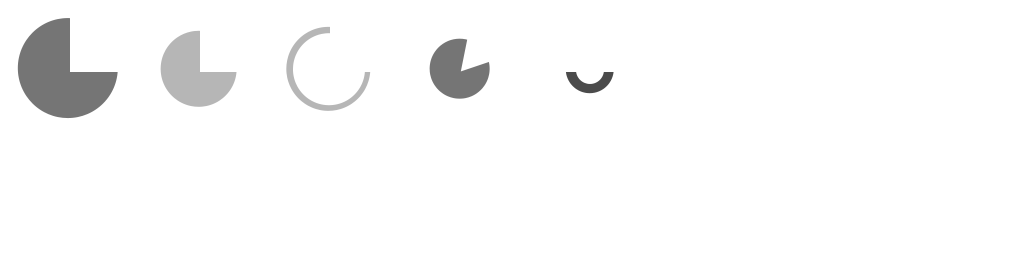
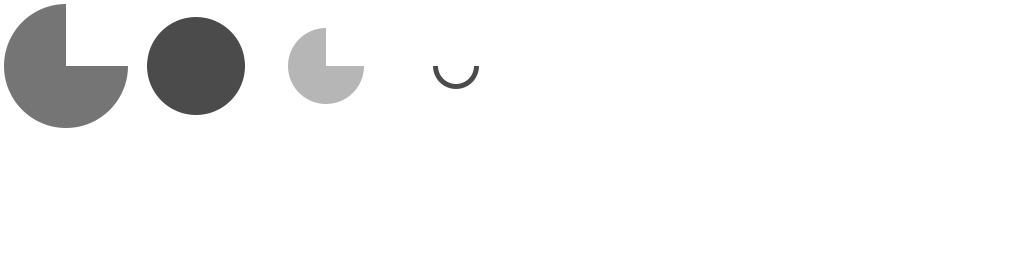
Corrected planet scan sprite. Changed scan animation.

diff --git a/SpaceSurvival/core/src/maxfat/spacesurvival/screens/GameScreen.java b/SpaceSurvival/core/src/maxfat/spacesurvival/screens/GameScreen.java
@@ -19,12 +19,15 @@ import com.badlogic.ashley.utils.ImmutableArray;
 import com.badlogic.gdx.Gdx;
 import com.badlogic.gdx.Screen;
 import com.badlogic.gdx.assets.AssetManager;
+import com.badlogic.gdx.graphics.Color;
 import com.badlogic.gdx.graphics.GL20;
 import com.badlogic.gdx.graphics.g2d.PolygonSpriteBatch;
 import com.badlogic.gdx.graphics.g2d.TextureAtlas;
 import com.badlogic.gdx.graphics.g2d.TextureAtlas.AtlasRegion;
 import com.badlogic.gdx.graphics.g2d.TextureRegion;
+import com.badlogic.gdx.math.Interpolation;
 import com.badlogic.gdx.math.Vector2;
+import com.badlogic.gdx.scenes.scene2d.Action;
 import com.badlogic.gdx.scenes.scene2d.Actor;
 import com.badlogic.gdx.scenes.scene2d.actions.Actions;
 import com.badlogic.gdx.utils.Array;
@@ -122,17 +125,48 @@ public class GameScreen implements Screen {
 						Array<AtlasRegion> ary = atlas.getRegions();
 						Array<Actor> actors = new Array<Actor>();
 						Vector2 v = planetComp.getPosition();
-						for (int i = 0; i < 5; i++) {
+						float scaleMultiplier = .5f;
+						float initialAnimationDuration = scaleMultiplier
+								* ary.size;
+						float baseAlpha = .7f;
+						for (int i = 0; i < ary.size; i++) {
 							TextureRegion region = ary.get(i);
 							Actor a = new TextureActor(region);
+							a.setColor(new Color(Color.rgba8888(.25f, .5f,
+									.66f, baseAlpha)));
 							a.setPosition(v.x - region.getRegionWidth() / 2,
 									v.y - region.getRegionHeight() / 2);
 							float rotateSpeed = 10 * (i + 1);
 							float initialRotation = (float) RandomUtil
 									.randomBetweenRanges(0, 360);
 							a.setRotation(initialRotation);
-							a.addAction(Actions.forever(Actions.rotateBy(
-									rotateSpeed, 1)));
+							a.setScale(0);
+							Action extraAction = null;
+							if (i == 0) {
+								Action scaleUp = Actions.parallel(Actions
+										.alpha(baseAlpha/2, .5f), Actions.scaleBy(1, 1,
+										.5f, Interpolation.swingOut));
+								Action scaleDown = Actions.parallel(Actions
+										.alpha(baseAlpha, 1f), Actions.scaleTo(1, 1,
+										1f, Interpolation.linear));
+								extraAction = Actions
+										.sequence(
+												Actions.delay(initialAnimationDuration),
+												Actions.forever(Actions
+														.sequence(Actions
+																.delay(5),
+																scaleUp,
+																scaleDown)));
+							} else {
+								extraAction = Actions.delay(0);
+							}
+							float scaleDelay = i * scaleMultiplier;
+							a.addAction(Actions.sequence(Actions
+									.delay(scaleDelay), Actions.scaleTo(1, 1,
+									.5f, new Interpolation.SwingOut(10)),
+									Actions.parallel(extraAction, Actions
+											.forever(Actions.rotateBy(
+													rotateSpeed, 1)))));
 							actors.add(a);
 						}
 						scanEntity.add(new ScanComponentRenderable(actors));

diff --git a/SpaceSurvival/core/src/maxfat/spacesurvival/rendersystem/TextureActor.java b/SpaceSurvival/core/src/maxfat/spacesurvival/rendersystem/TextureActor.java
@@ -16,10 +16,11 @@ public class TextureActor extends Actor {
 		float rotation = this.getRotation();
 		float width = this.region.getRegionWidth();
 		float height = this.region.getRegionHeight();
+		batch.setColor(this.getColor());
 		batch.draw(this.region, //
 				getX(), getY(), //
 				width / 2, height / 2, //
 				width, height,//
-				1, 1, rotation);
+				getScaleX(), getScaleY(), rotation);
 	}
 }

diff --git a/SpaceSurvival/core/src/maxfat/spacesurvival/rendersystem/SystemRenderPlanetScanProgress.java b/SpaceSurvival/core/src/maxfat/spacesurvival/rendersystem/SystemRenderPlanetScanProgress.java
@@ -6,6 +6,7 @@ import com.badlogic.ashley.core.EntitySystem;
 import com.badlogic.ashley.core.Family;
 import com.badlogic.ashley.utils.ImmutableArray;
 import com.badlogic.gdx.graphics.Camera;
+import com.badlogic.gdx.graphics.Color;
 import com.badlogic.gdx.graphics.g2d.SpriteBatch;
 import com.badlogic.gdx.scenes.scene2d.Actor;
 import com.badlogic.gdx.utils.Disposable;
